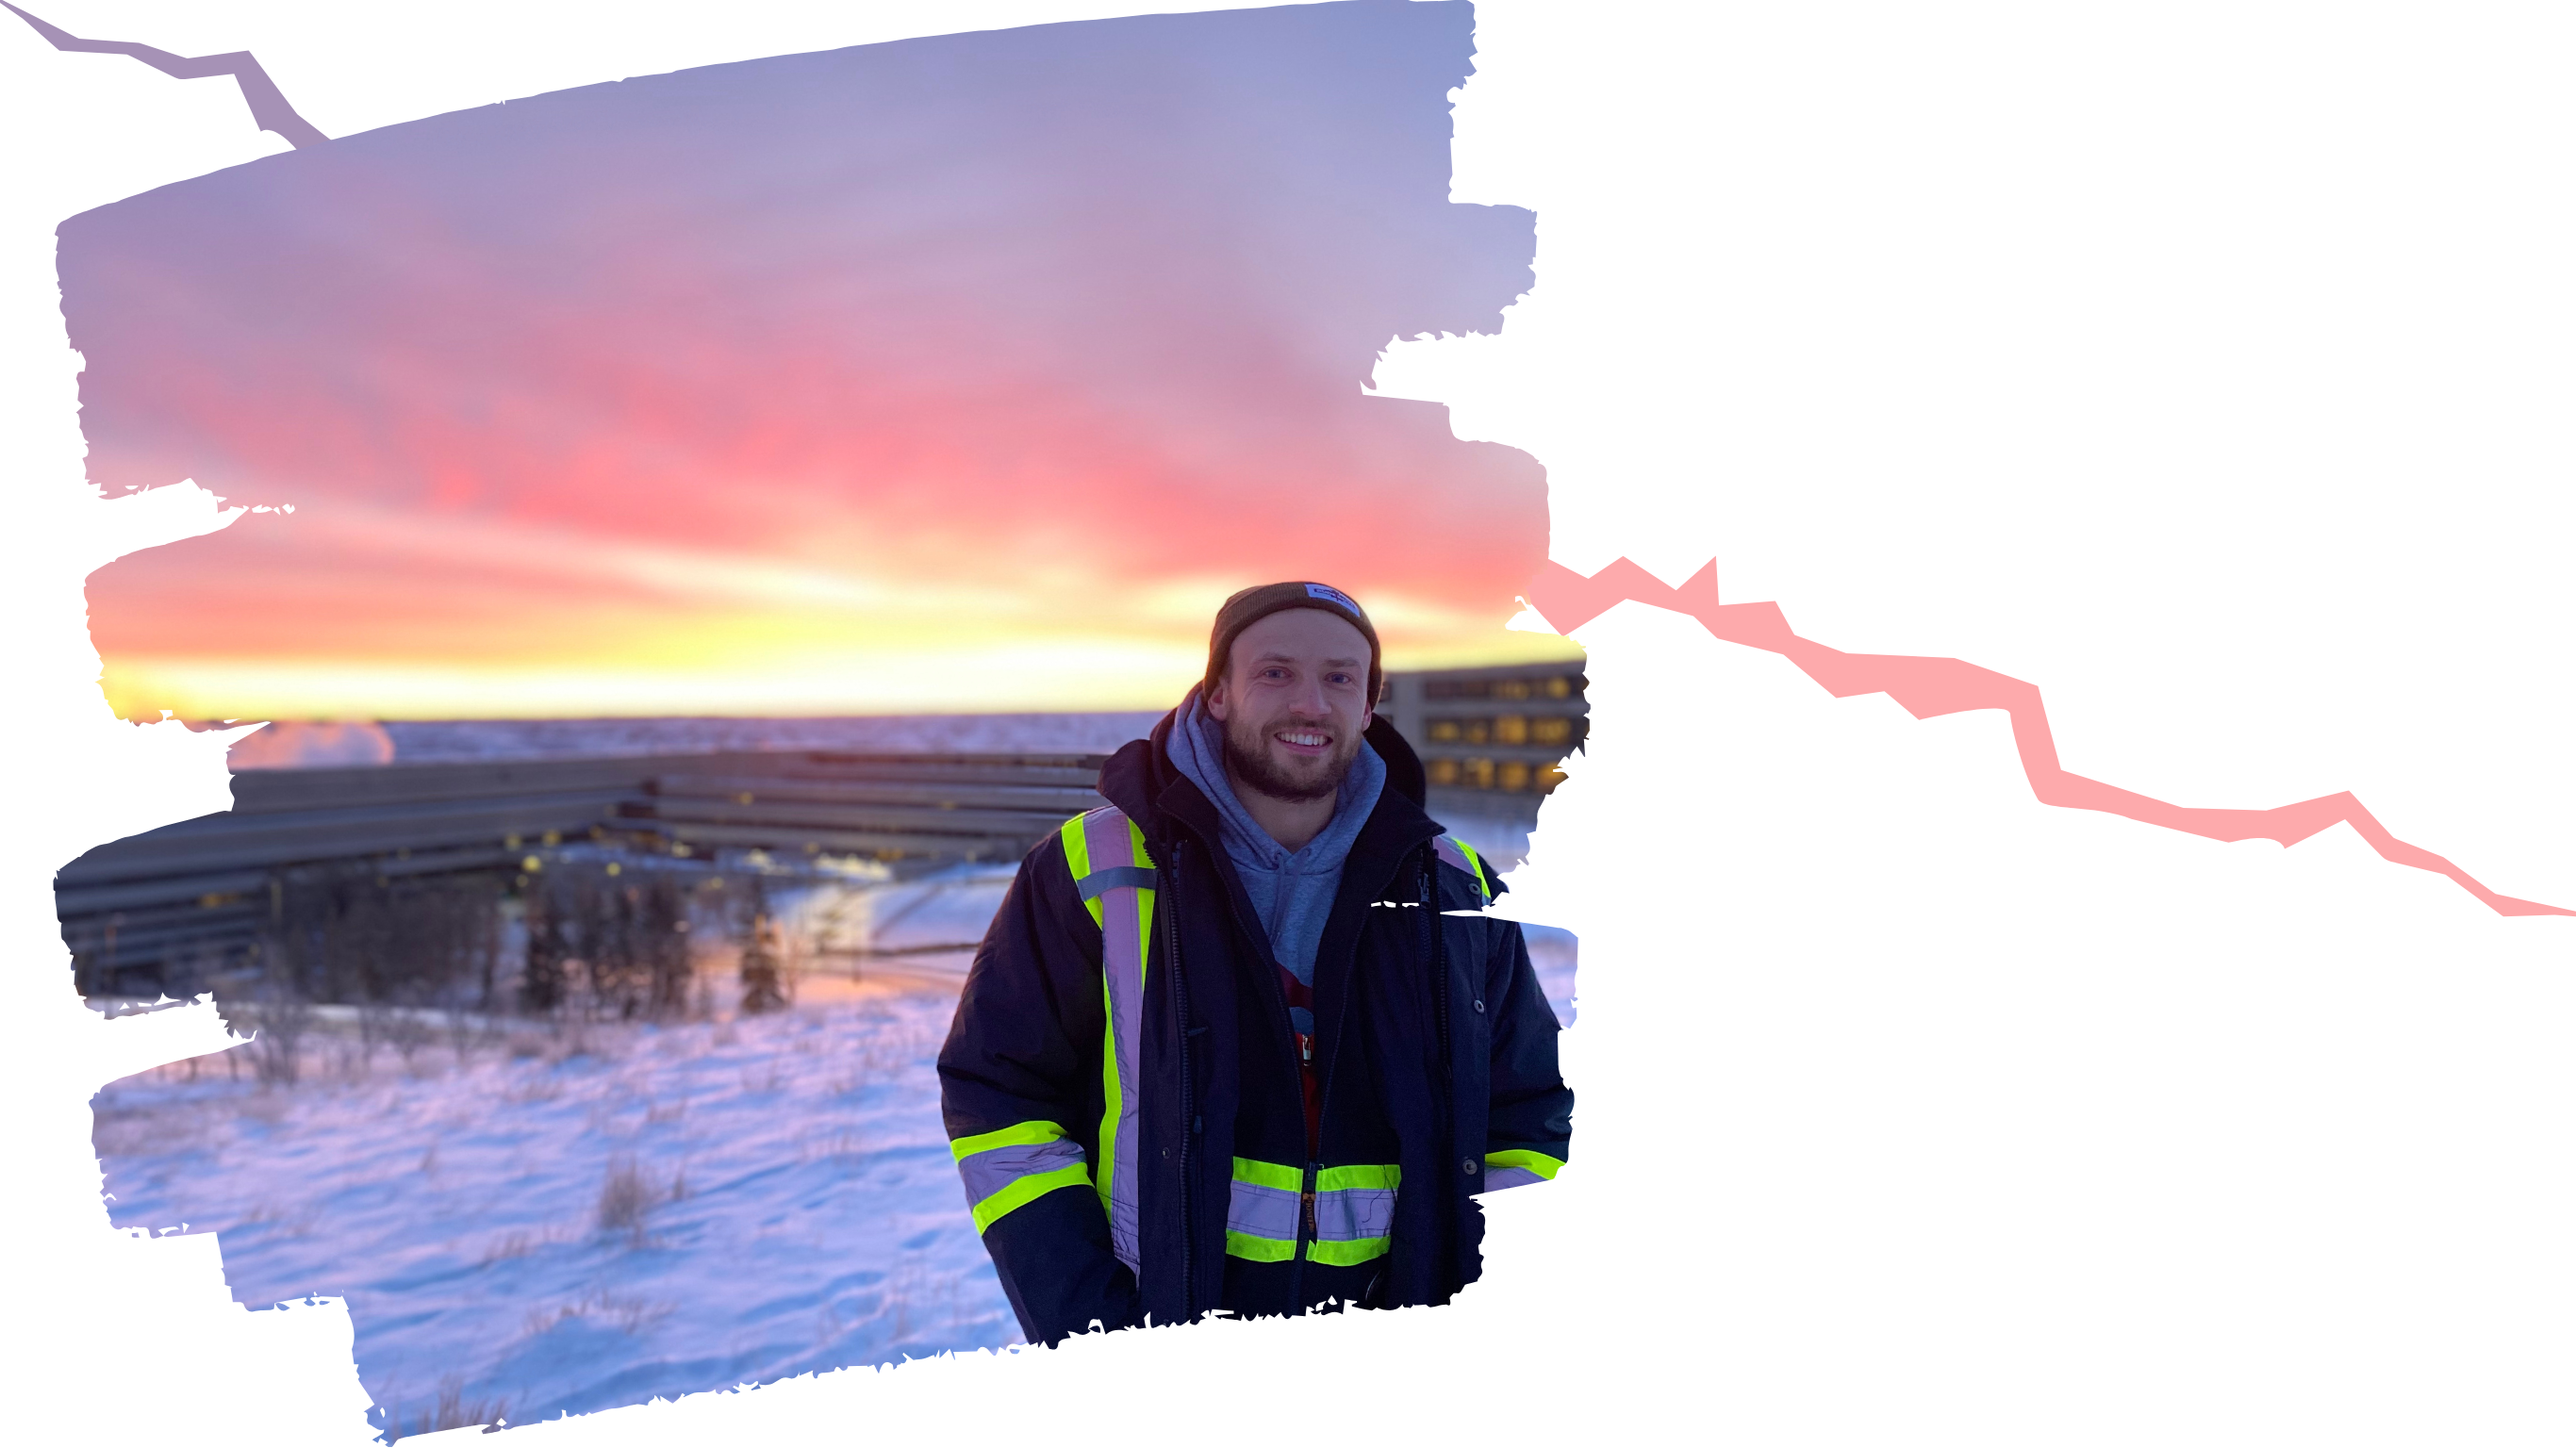
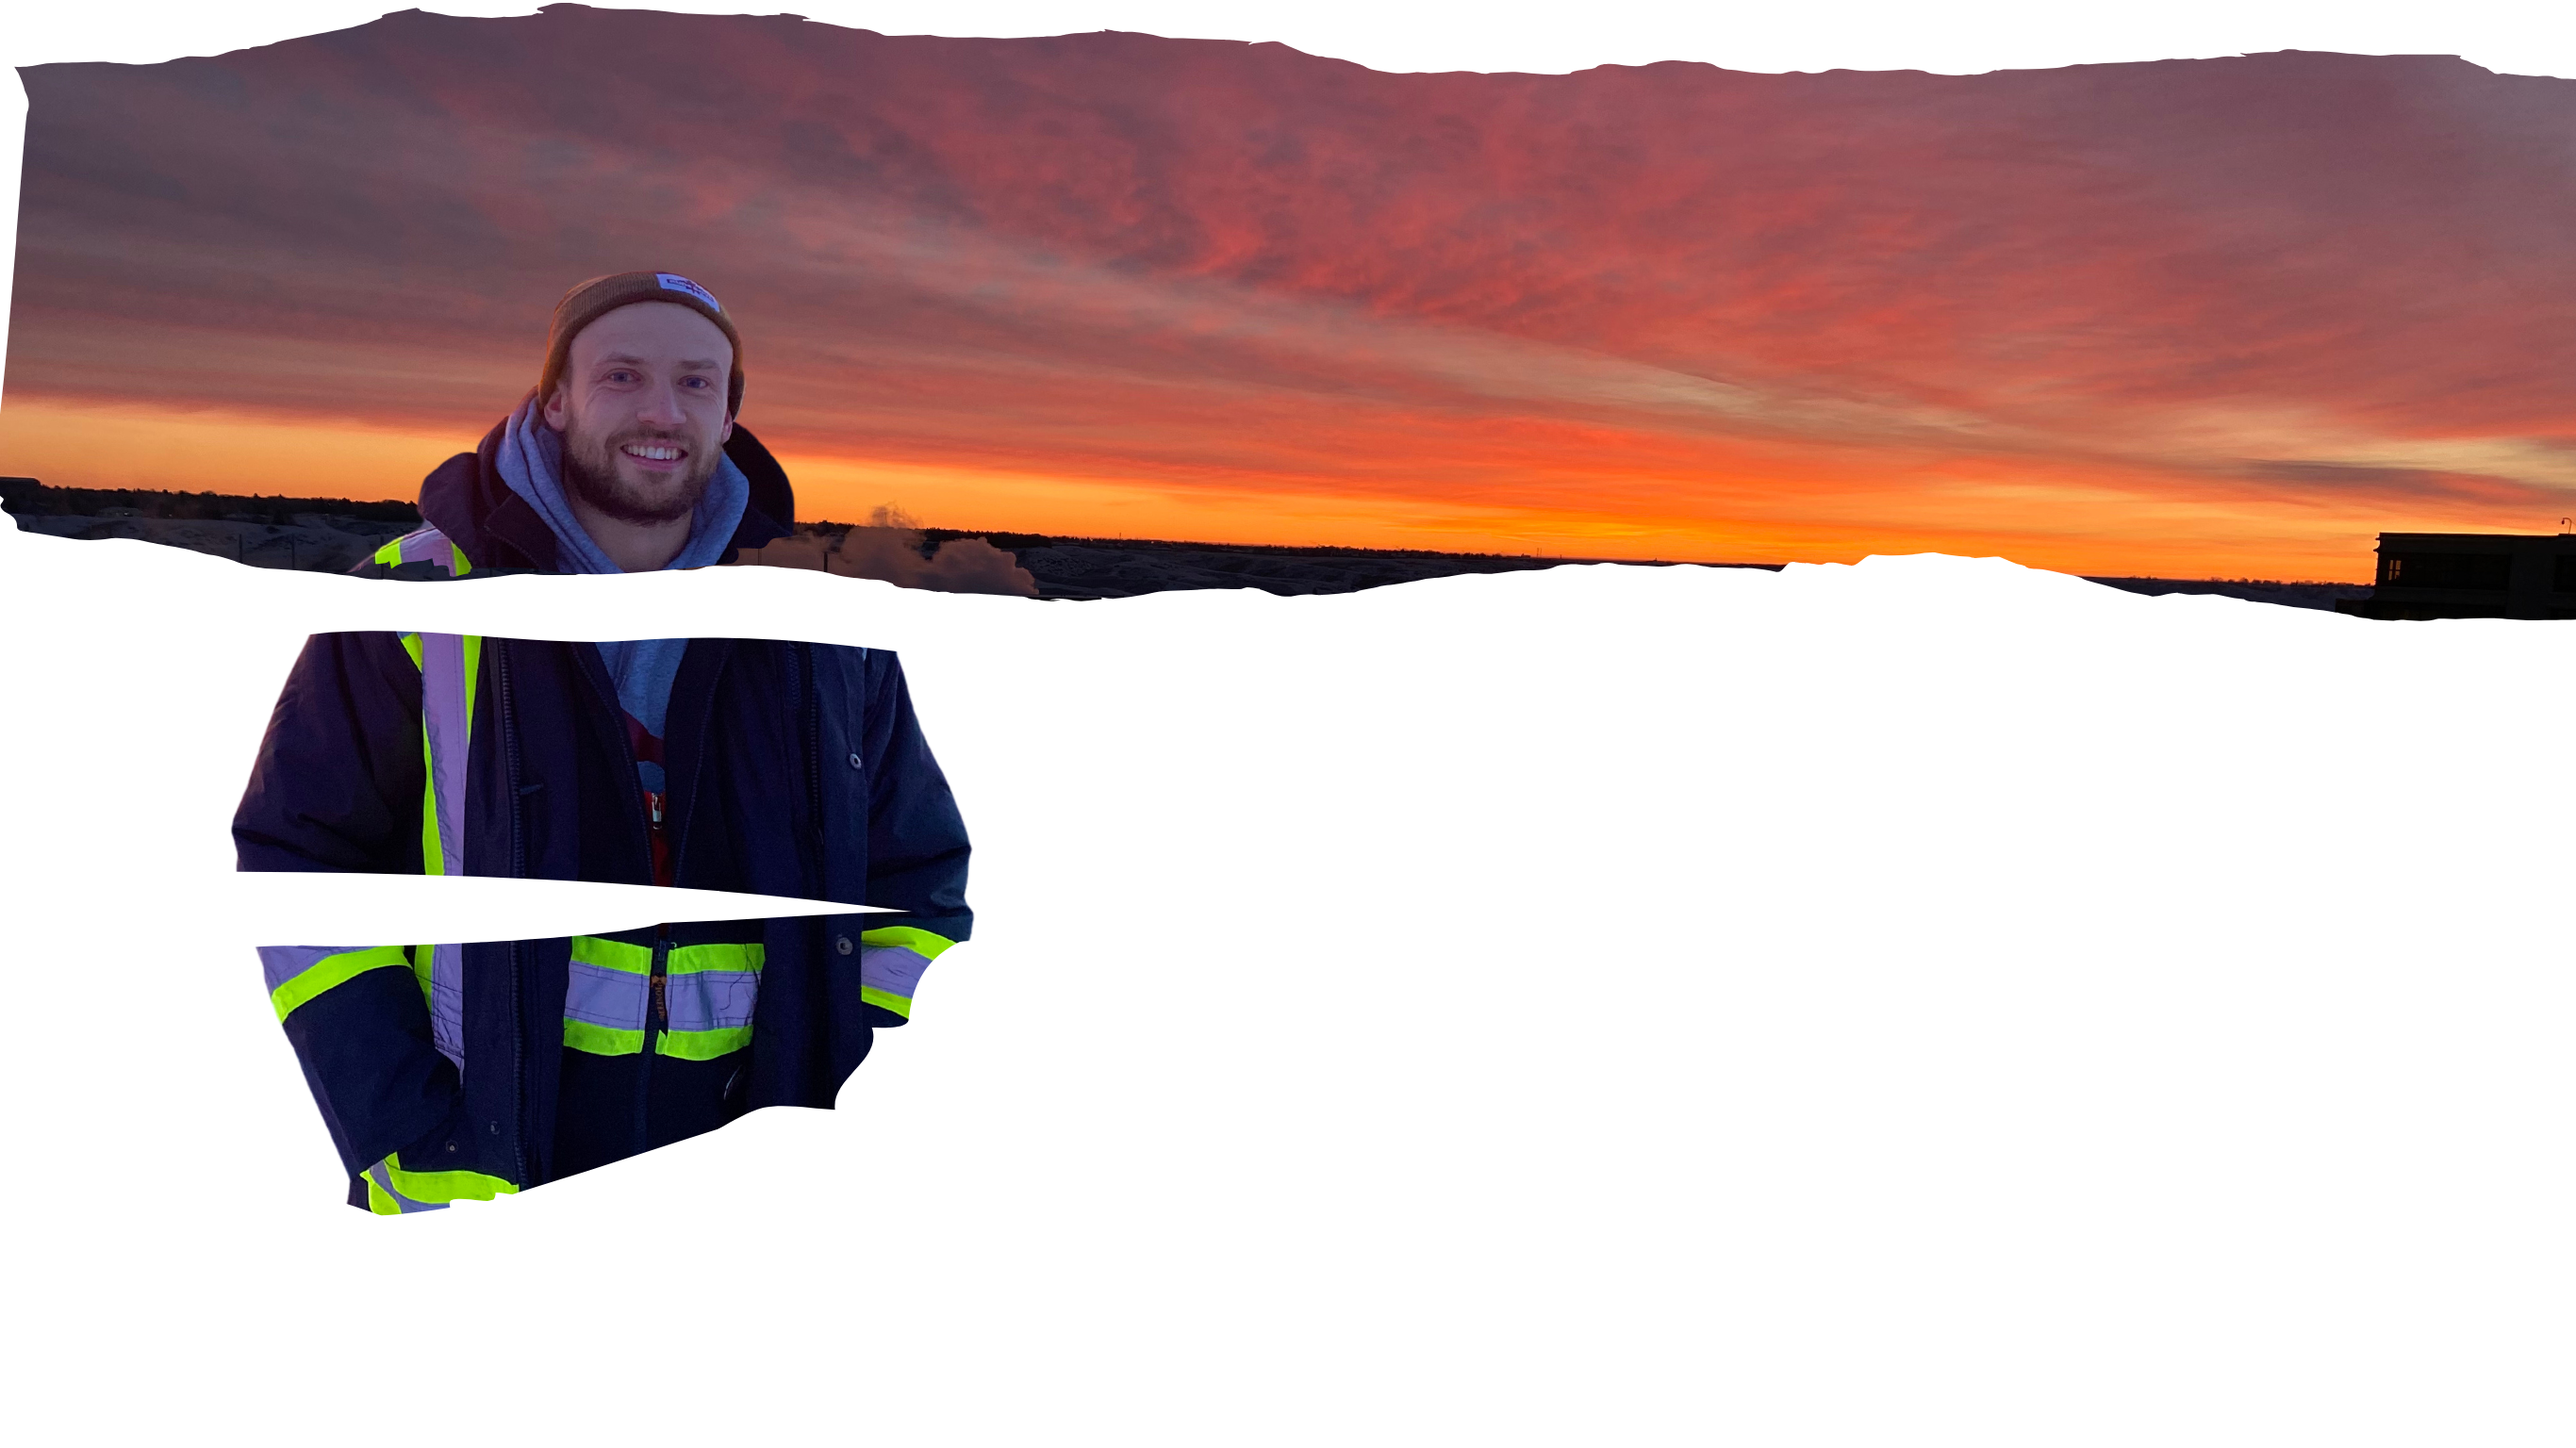
Working on About component, new image, responsive changes

diff --git a/app/about/page.tsx b/app/about/page.tsx
@@ -35,16 +35,15 @@ import {
   SiTypescript,
   SiVeepee,
 } from 'react-icons/si'
-import { TypewriterEffect } from '@/components/ui/typewriter-effect'
 import MainHeaderNav from '../components/MainHeaderNav'
+import { TextGenerateEffect } from '@/components/ui/text-generate-effect'
+import Footer from '../components/Footer'
 
-// TypeWriterEffect
-// const mainHeader = [
-//   {
-//     text: 'MATTHEW',
-//   },
-//   { text: 'RANFORD' },
-// ]
+// TextGenerateEffect
+const firstLine = '🌎 Wellington, New Zealand'
+const secondLine = '💼 How can i be of service?'
+const thirdLine = '☕ Coffee? On me!'
+const fourthLine = '💡 Lets get creative together!'
 
 // LayoutGrid
 const FrameOne = () => {
@@ -330,7 +329,7 @@ const humanSkills = [
 export default function About() {
   return (
     <>
-      <section className="md:max-w-full bg-zinc-300 dark:bg-stone-800">
+      <section className="md:max-w-full">
         <MainHeaderNav />
         <Image
           src="/about-image-test.png"
@@ -338,20 +337,50 @@ export default function About() {
           height="1536"
           alt=""
           className="about-image "
-          // pt-20
         />
+
+        {/* h1 */}
+        {/* text-7xl to-sm:text-[3.3rem] sm:text-7xl md:text-[5.5rem] lg:text-8xl xl:text-[9.3rem] 2xl:text-[11rem] 3xl:text-[13rem] 4xl:text-[14rem] 5xl:text-[17.5rem] 6xl:text-[18rem] to-sm:text-center sm:text-center lg:text-right ps-4 sm:ps-24 lg:ps-20 pe-4 sm:pe-2 xl:pe-10 pt-12 to-sm:pt-16 small:pt-16 smallAgain:pt-16 smallerAgain:pt-16 sm:pt-24 md:pt-24 lg:pt-36 xl:pt-4 2xl:pt-52 3xl:pt-60 4xl:pt-72 5xl:pt-80 6xl:pt-80  */}
+
+        {/* h2 */}
+        {/* dark:text-orange-300 text-cyan-700 text-right smallerAgain:text-right sm:text-right md:text-center lg:text-right ps-5 sm:ps-6 md:ps-0 lg:ps-20 pe-12 smaller:pe-4 small:pe-4 smallAgain:pe-4 smallerAgain:pe-4 sm:pe-16 md:pe-0 xl:pe-12 text-2xl sm:text-2xl lg:text-4xl 2xl:text-6xl pt-4 pb-8 2xl:pb-16 */}
+
+        <div className="xl:pe-12 pe-4 sm:pe-8 pt-4 lg:pt-20 xl:pt-0 xl:-mt-24 space-y-2">
+          <TextGenerateEffect
+            words={firstLine}
+            delay={3000}
+            className="text-right"
+          />
+          <TextGenerateEffect
+            words={secondLine}
+            delay={3800}
+            className="text-right"
+          />
+          <TextGenerateEffect
+            words={thirdLine}
+            delay={4600}
+            className="text-right"
+          />
+          <TextGenerateEffect
+            words={fourthLine}
+            delay={5200}
+            className="text-right"
+          />
+        </div>
+
         <div className="space-y-4 2xl:space-y-6">
-          <h1 className="text-left text-7xl to-sm:text-[3.3rem] sm:text-7xl md:text-[5.5rem] lg:text-8xl xl:text-[9.3rem] 2xl:text-[11rem] 3xl:text-[13rem] 4xl:text-[14rem] 5xl:text-[17.5rem] 6xl:text-[18rem] to-sm:text-center sm:text-center lg:text-right ps-4 sm:ps-24 lg:ps-20 pe-4 sm:pe-2 xl:pe-10 pt-12 to-sm:pt-16 small:pt-16 smallAgain:pt-16 smallerAgain:pt-16 sm:pt-24 md:pt-24 lg:pt-36 xl:pt-4 2xl:pt-52 3xl:pt-60 4xl:pt-72 5xl:pt-80 6xl:pt-80 font-bold dark:text-zinc-200 text-stone-900">
+          <h1 className="text-center text-7xl lg:text-8xl xl:text-[9.3rem] pt-12 lg:pt-20 xl:pt-16 font-bold dark:text-zinc-200 text-stone-900">
             Who I Am <span>?</span>
           </h1>
-          <p
+          <h2
             id="about"
-            className="dark:text-orange-300 text-cyan-700 text-right smallerAgain:text-right sm:text-right md:text-center lg:text-right ps-5 sm:ps-6 md:ps-0 lg:ps-20 pe-12 smaller:pe-4 small:pe-4 smallAgain:pe-4 smallerAgain:pe-4 sm:pe-16 md:pe-0 xl:pe-12 text-2xl sm:text-2xl lg:text-4xl 2xl:text-6xl pt-4 pb-8 2xl:pb-16"
+            className="text-center text-3xl dark:text-orange-300 text-cyan-700"
           >
             A little bit about me
-          </p>
-          <div className="dark:text-zinc-200 text-stone-900 flex items-center justify-center space-y-10 md:space-y-0 flex-wrap pt-0 smaller:pt-6 to-sm:pt-14 small:pt-14 smallAgain:pt-16 smallerAgain:pt-24 sm:pt-20 md:pt-4 lg:pt-6 xl:pt-0 2xl:pt-0 ps-4 sm:ps-6 lg:ps-8 pe-4 small:pe-3 sm:pe-4">
-            <span className="max-w-2xl 2xl:max-w-4xl text-xl sm:text-2xl lg:text-3xl first-letter:text-7xl first-letter:float-start text-left md:text-right 2xl:text-left px-0 md:px-4 2xl:px-10">
+          </h2>
+
+          <div className="dark:text-zinc-200 text-stone-900 flex items-center justify-center space-y-10 md:space-y-0 flex-wrap pt-4 smaller:pt-6 to-sm:pt-6 sm:pt-6 md:pt-4 lg:pt-6 xl:pt-0 2xl:pt-0 ps-4 sm:ps-6 lg:ps-8 pe-4 small:pe-3 sm:pe-4">
+            <span className="max-w-2xl 2xl:max-w-4xl text-2xl sm:text-2xl lg:text-3xl first-letter:text-7xl first-letter:float-start text-left md:text-right 2xl:text-left px-0 md:px-4 2xl:px-10">
               I&apos;m a Full-Stack Developer who recently completed a 17-week
               intensive boot camp learning full-stack software development at
               Dev Academy in December 2023.
@@ -376,11 +405,11 @@ export default function About() {
             </span>
 
             <div className="max-w-2xl 2xl:max-w-3xl small:pt-4 smallAgain:pt-4 smallerAgain:pt-4 sm:pt-4 md:pt-8 lg:pt-20 xl:pt-0 pb-0 md:pb-10">
-              <h2 className="text-left md:text-center text-2xl sm:text-2xl lg:text-4xl 2xl:text-6xl dark:text-orange-300 text-cyan-700 ps-2 sm:ps-2 lg:ps-8 pe-4 sm:pe-0 small:pt-8 smallAgain:pt-8 smallerAgain:pt-8 sm:pt-8 md:pt-0 xl:pt-12">
+              <h2 className="text-left md:text-center text-3xl lg:text-4xl 2xl:text-6xl dark:text-orange-300 text-cyan-700 ps-2 sm:ps-2 lg:ps-8 pe-4 sm:pe-0 small:pt-8 smallAgain:pt-8 smallerAgain:pt-2 sm:pt-2 md:pt-0 xl:pt-12">
                 Experience with
               </h2>
               <HoverEffect items={techSkills} />
-              <h2 className="text-right md:text-center text-2xl sm:text-2xl lg:text-4xl 2xl:text-6xl dark:text-orange-300 text-cyan-700 ps-5 sm:ps-6 lg:ps-8 pe-3 sm:pe-0">
+              <h2 className="text-right md:text-center text-3xl  lg:text-4xl 2xl:text-6xl dark:text-orange-300 text-cyan-700 ps-5 sm:ps-6 lg:ps-8 pe-3 sm:pe-0">
                 Human skills
               </h2>
               <HoverEffect items={humanSkills} />
@@ -388,17 +417,18 @@ export default function About() {
           </div>
         </div>
         <div className="h-screen w-full pb-20">
-          <h2 className="text-left md:text-center text-2xl sm:text-2xl lg:text-4xl 2xl:text-6xl dark:text-orange-300 text-cyan-700 ps-7 sm:ps-6 lg:ps-8 pe-4 sm:pe-0 small:pt-8 smallAgain:pt-8 smallerAgain:pt-8 sm:pt-8 md:pt-0 xl:pt-6 pb-8">
+          <h2 className="text-left md:text-center text-3xl lg:text-4xl 2xl:text-6xl dark:text-orange-300 text-cyan-700 ps-7 sm:ps-6 lg:ps-8 pe-4 sm:pe-0 small:pt-8 smallAgain:pt-8 smallerAgain:pt-8 sm:pt-8 md:pt-0 xl:pt-6 pb-8">
             A couple of highlights ...
           </h2>
           <LayoutGrid cards={cards} />
         </div>
-        <div className="max-w-2xl 2xl:max-w-3xl small:pt-4 smallAgain:pt-4 smallerAgain:pt-4 sm:pt-4 md:pt-8 lg:pt-20 xl:pt-32 pb-0 md:pb-10 mx-auto ps-4 pe-4">
-          <h2 className="text-right md:text-center text-2xl sm:text-2xl lg:text-4xl 2xl:text-6xl dark:text-orange-300 text-cyan-700 ps-5 sm:ps-6 lg:ps-8 pe-3 sm:pe-0">
+        <div className="max-w-2xl 2xl:max-w-3xl small:pt-8 smallAgain:pt-8 smallerAgain:pt-10 sm:pt-8 lg:pt-20 xl:pt-32 pb-0 md:pb-10 mx-auto ps-4 pe-4">
+          <h2 className="text-right md:text-center text-3xl lg:text-4xl 2xl:text-6xl dark:text-orange-300 text-cyan-700 ps-5 sm:ps-6 lg:ps-8 pe-3 sm:pe-0">
             & some of my hobbies ..
           </h2>
           <HoverEffect items={hobbies} />
         </div>
+        <Footer />
       </section>
     </>
   )

diff --git a/app/components/Hero.tsx b/app/components/Hero.tsx
@@ -12,36 +12,9 @@ import { handlee } from '@/fonts'
 
 export default function Hero() {
   // TextGenerateEffect
-  //   const firstLine = '🌎 Wellington, New Zealand'
-  //   const secondLine = '💼 How can i be of service?'
-  //   const thirdLine = '☕ Coffee? On me!'
-  //   const fourthLine = '💡 Lets build something amazing together!'
-
   const firstLine = 'A Full-Stack Developer, who has found he is'
-
   const secondLine =
     'Extremely passionate about Front-End, Accessibility, & trying to optimize his applications for the best practices & performance.'
-
-  //   <TextGenerateEffect
-  //   words={firstLine}
-  //   delay={3000}
-  //   className="hover:scale-95"
-  // />
-  // <TextGenerateEffect
-  //   words={secondLine}
-  //   delay={3800}
-  //   className="hover:scale-95"
-  // />
-  // <TextGenerateEffect
-  //   words={thirdLine}
-  //   delay={4600}
-  //   className="hover:scale-95"
-  // />
-  // <TextGenerateEffect
-  //   words={fourthLine}
-  //   delay={5200}
-  //   className="hover:scale-95"
-  // />
 
   return (
     <>
@@ -66,8 +39,8 @@ export default function Hero() {
             alt=""
             className="hero-image"
           />
-          <div className="absolute p-2 top-[22%] sm:top-[30%] md:top-[40%] lg:top-[58%] xl:top-[62%] 2xl:top-[55%] 3xl:top-[59%] 4xl:top-[60.8%] 5xl:top-[65%] 6xl:top-[58%] left-[5%] smallest:left-[2%] sm:left-[2%] md:left-[10%] lg:left-[60%] xl:left-[65%] 5xl:left-[70%] space-x-2 sm:rotate-6">
-            <div className={handlee.className}>
+          <div className={handlee.className}>
+            <div className="absolute p-2 top-[22%] sm:top-[30%] md:top-[40%] lg:top-[58%] xl:top-[62%] 2xl:top-[55%] 3xl:top-[59%] 4xl:top-[60.8%] 5xl:top-[65%] 6xl:top-[58%] left-[5%] smallest:left-[2%] sm:left-[2%] md:left-[10%] lg:left-[60%] xl:left-[65%] 5xl:left-[70%] space-x-2 sm:rotate-6">
               <Link href="projects">
                 <MovingBorderButton className="font-bold">
                   Recent Work!

diff --git a/app/globals.css b/app/globals.css
@@ -153,17 +153,6 @@
   opacity: 0.7;
 }
 
-/* FULL IMAGE TEST */
-/* .hero-image {
-  position: absolute;
-  width: 100%;
-  height: auto;
-  object-fit: cover;
-  top: 0;
-  left: 25%;
-  opacity: 0.7;
-} */
-
 /* Responsiveness for image */
 @media (max-width: 767px) {
   .hero-image {
@@ -175,17 +164,18 @@
 
 .about-image {
   position: absolute;
-  width: 65%;
+  width: 100%;
   height: auto;
   object-fit: cover;
-  opacity: 0.6;
-  left: 3%;
+  opacity: 0.7;
+  top: 0;
+  left: 0;
   /* top: 95%; */
 }
 
 @media (max-width: 767px) {
   .about-image {
-    width: 95%;
+    width: 100%;
     /* top: auto; */
   }
 }
